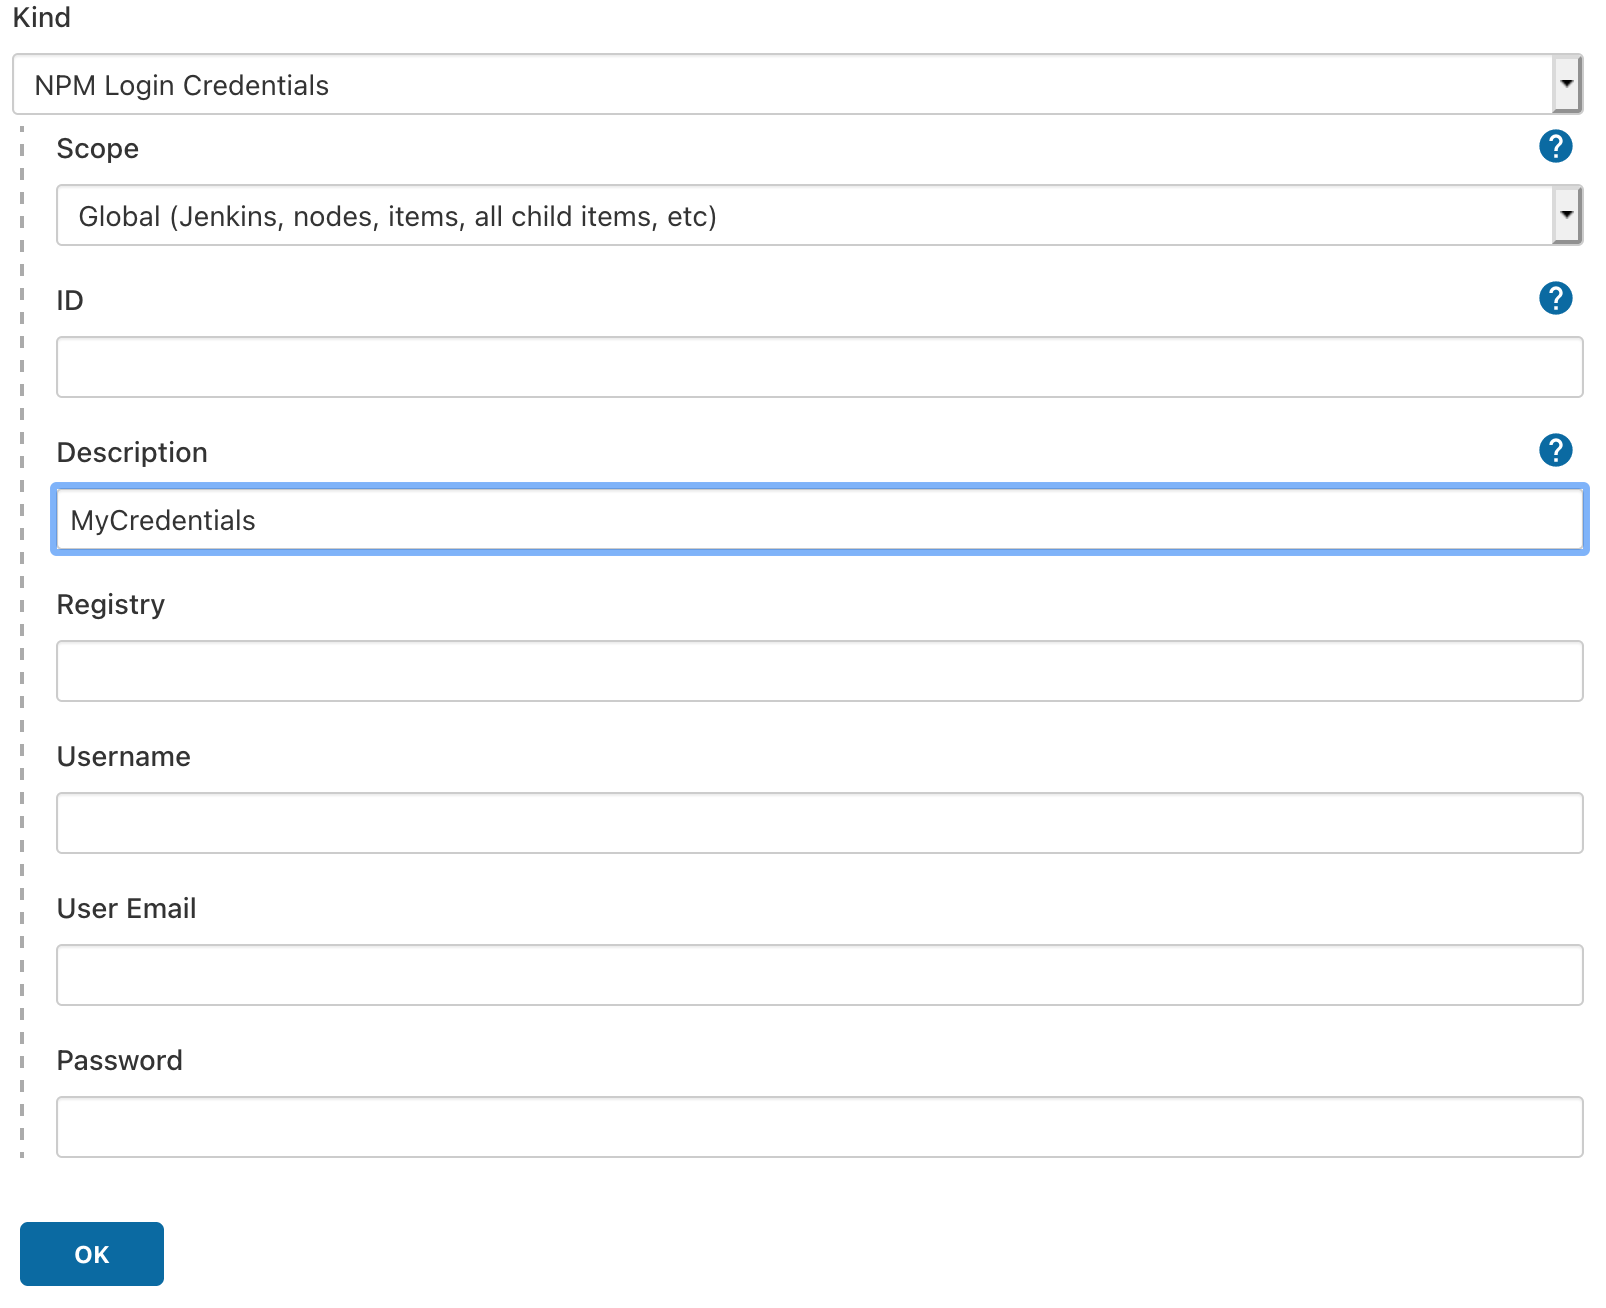
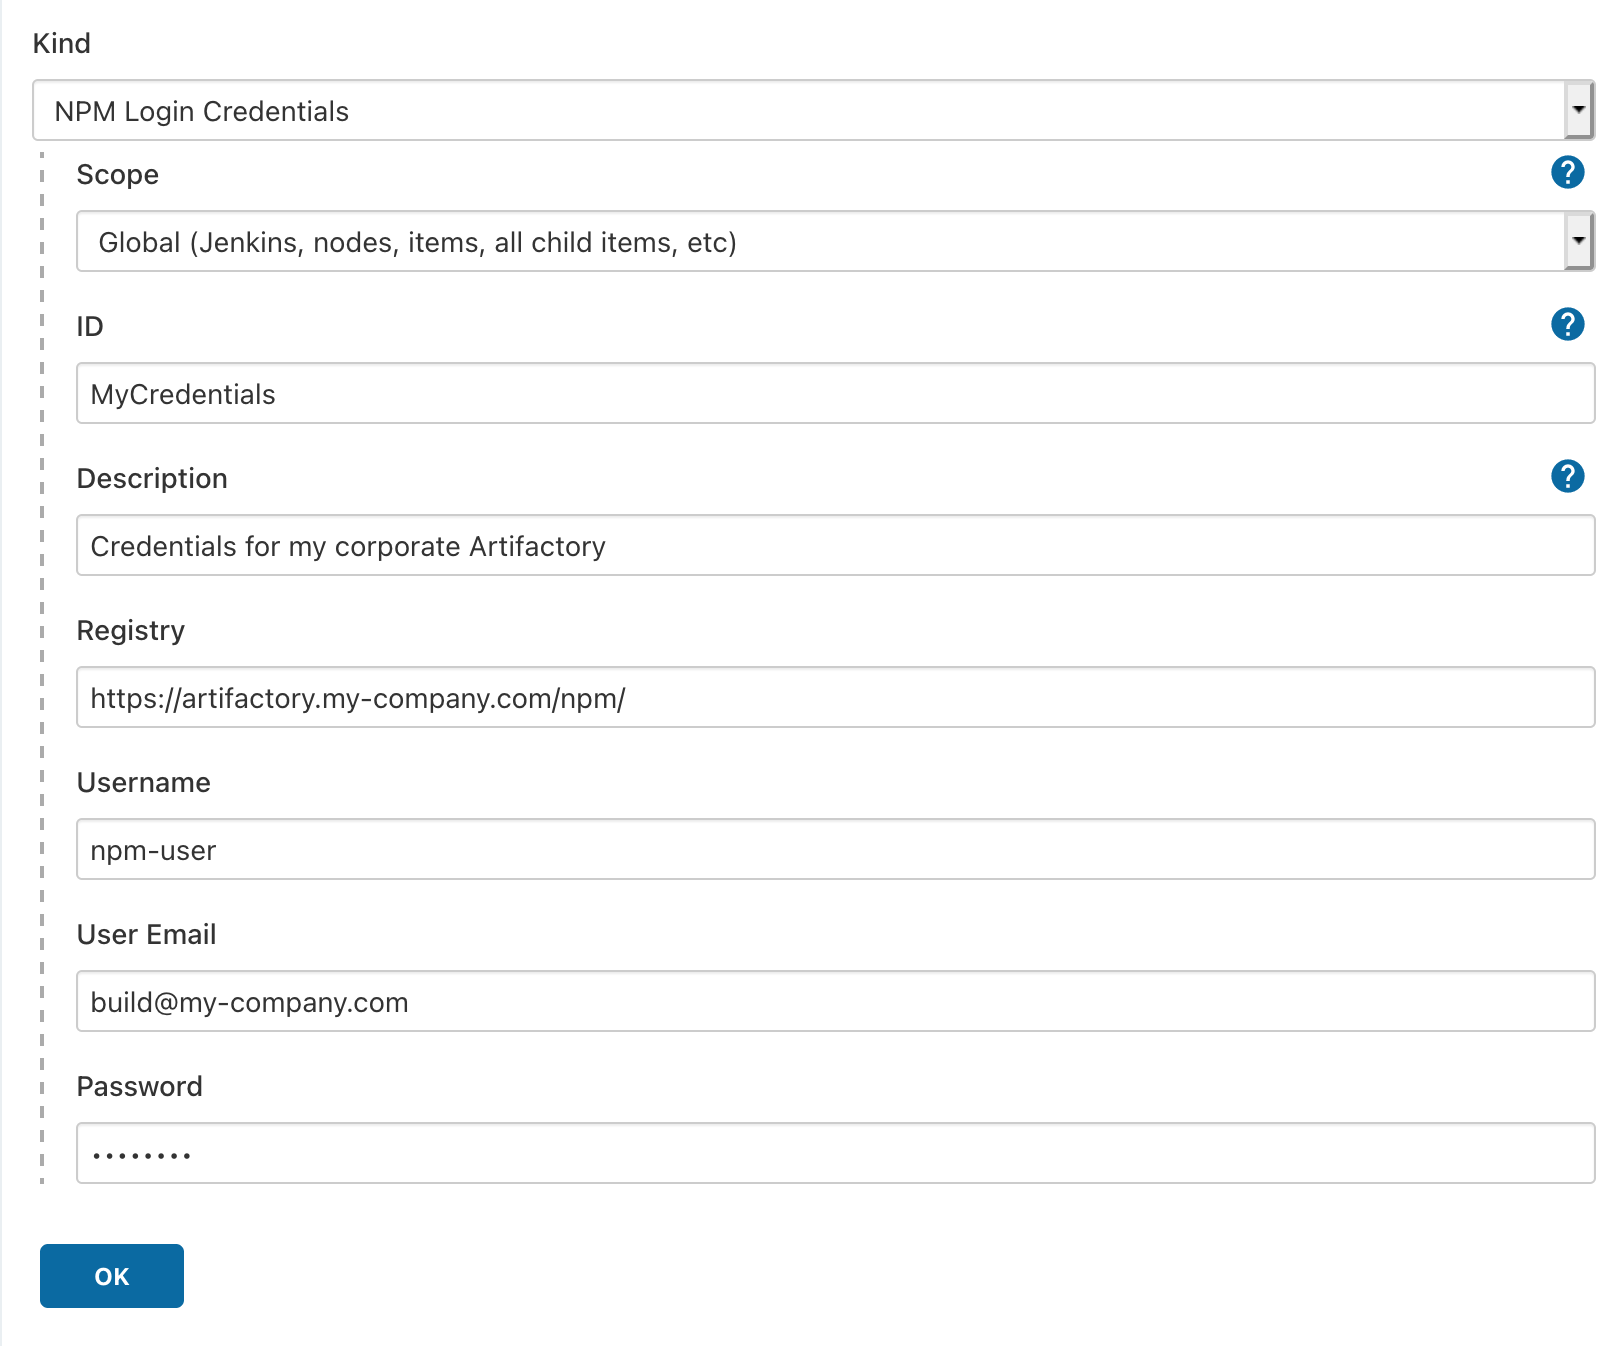
docs: updates screenshot and README

diff --git a/README.md b/README.md
@@ -10,9 +10,15 @@ stable version of NodeJS. The wrapper allows specifying a workspace subdirectory
 providing login credentials.
 
 ## NPM Credentials
-Users can provide credentials for a private or corporate NPM repository by setting them up through the custom NPM Credential type. To do so, navigate to manage credentials within Jenkins and provide the appropriate url, username, user email and password.
+
+Users can provide credentials for a private or corporate NPM repository by setting them up through the custom NPM
+Credential type. To do so, navigate to manage credentials within Jenkins and provide the appropriate url, username, user
+email and password.
 
 ![Select NPM Login Credentials as the credential kind.](images/credentials-1.png?raw=true "Select NPM Login Credentials")
+
+Fill in the form with the correct credentials for your Artifactory. Note that currently _no_ validation is done to
+ensure that the credentials are correct prior to storing them.
 
 ![Fill in the appropriate login information.](images/credentials-2.png?raw=true "Provide the correct credentials")
 
